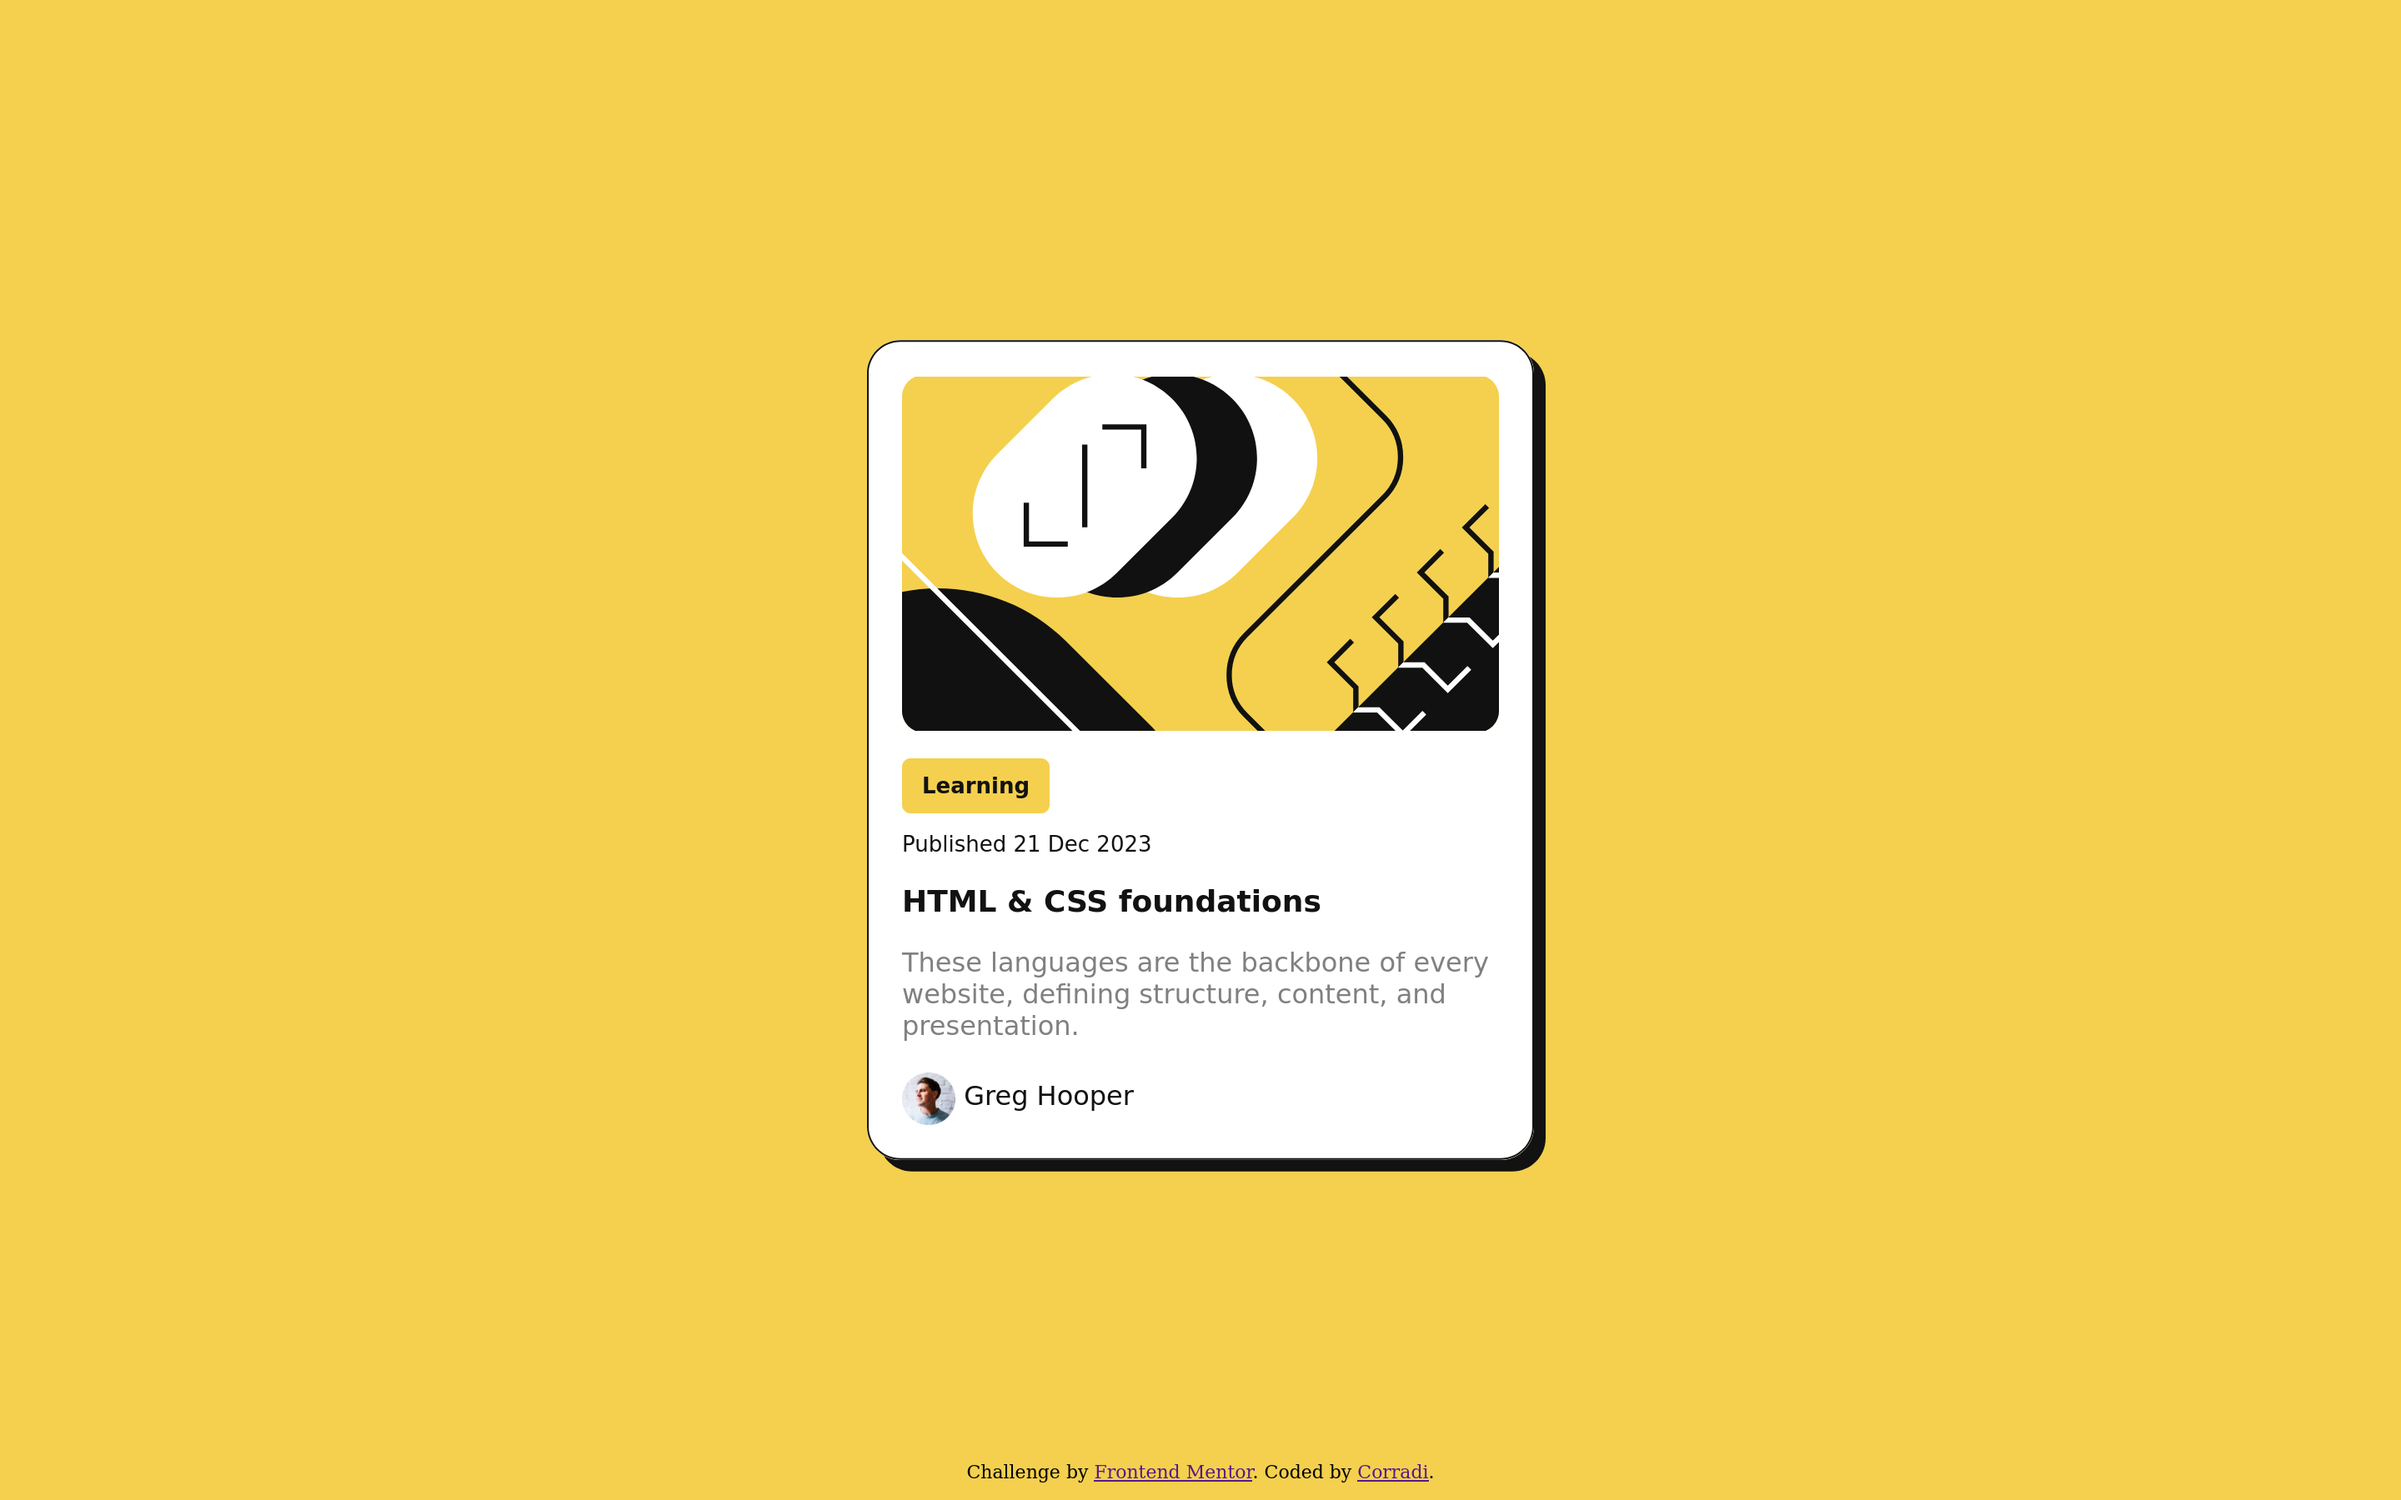
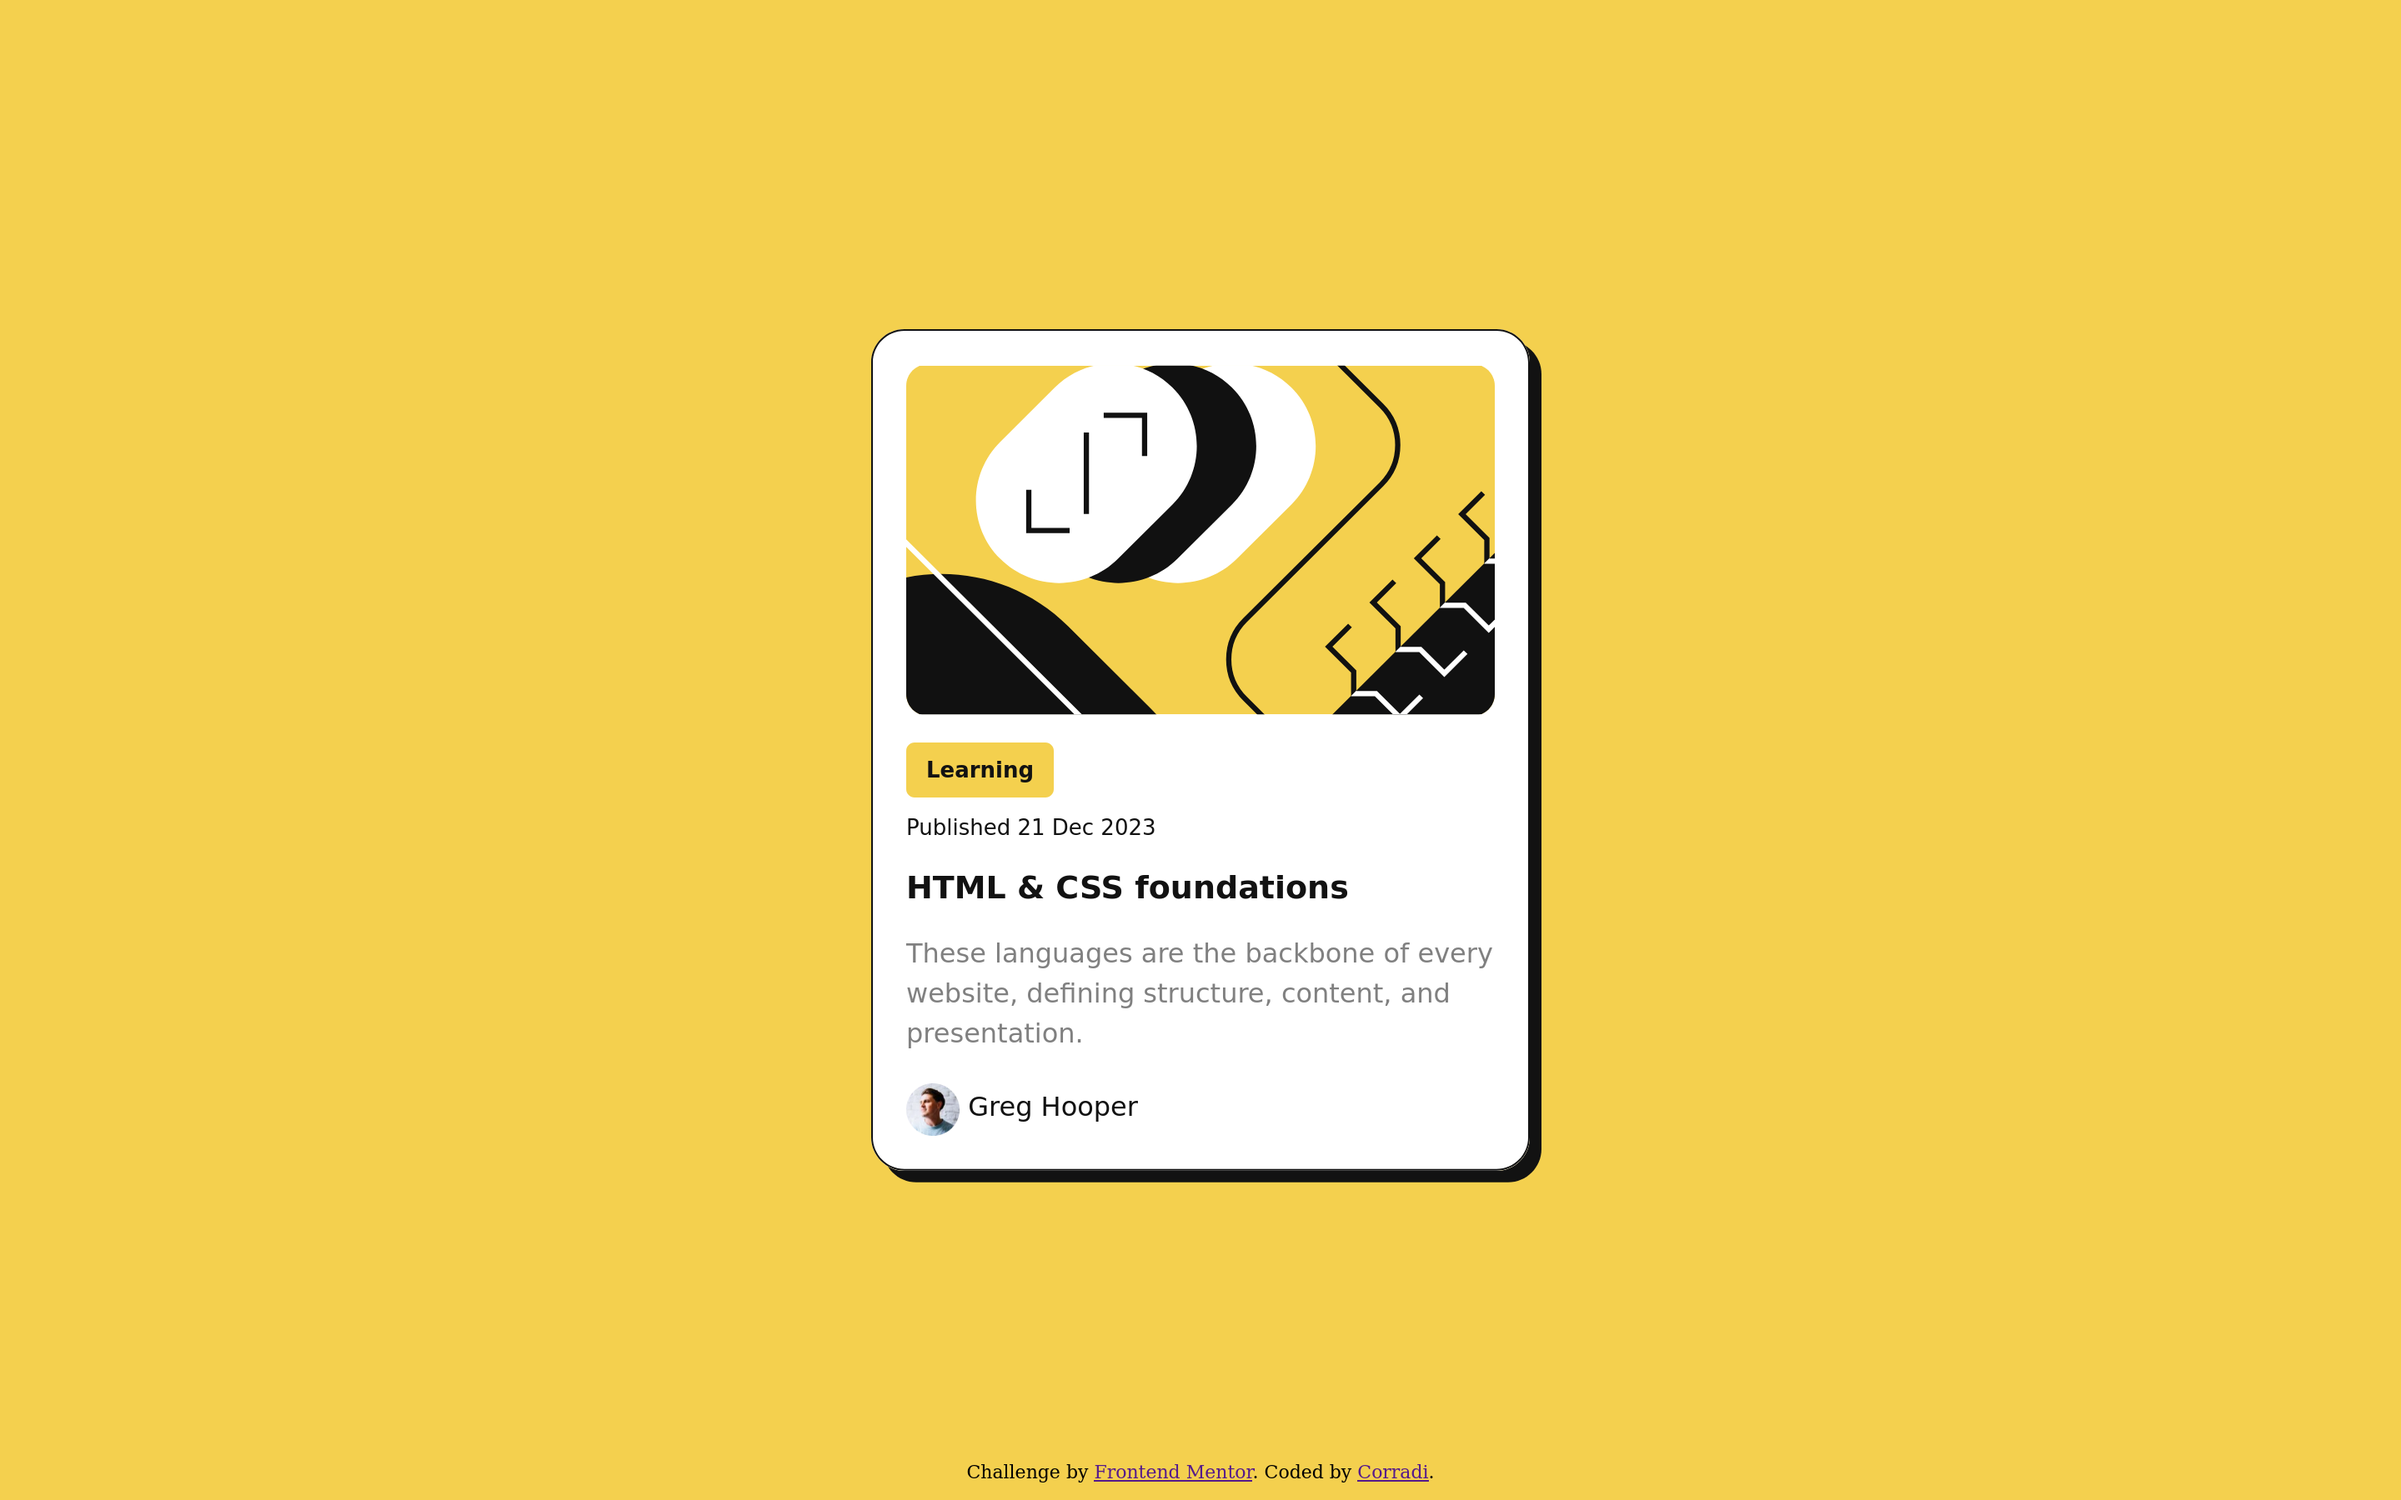
Correção de erros

Changed region(s): [[0.3438, 0.2178, 0.6562, 0.8089]]

diff --git a/blog-preview-card/css/style.css b/blog-preview-card/css/style.css
@@ -16,7 +16,7 @@ body {
 
 .card {
   background-color: hsl(0, 0%, 100%);
-  max-width: 400px;
+  max-width: 395px;
   padding: 20px;
   border: 1px solid hsl(0, 0%, 7%);
   border-radius: 20px;
@@ -53,7 +53,7 @@ body {
 }
 
 .card h1 {
-  font-size: 18px;
+  font-size: 19px;
 }
 
 .card h1:hover {
@@ -64,6 +64,7 @@ body {
 .card p {
   color: hsl(0, 0%, 50%);
   font-size: 16px;
+  line-height: 1.5em;
 }
 
 .card .footer img {

diff --git a/social-links-profile/css/styles.css b/social-links-profile/css/styles.css
@@ -3,7 +3,7 @@
 }
 
 html, body {
-  height: 100svh;
+  min-height: 100svh;
 }
 
 body { 

diff --git a/blog-preview-card/index.html b/blog-preview-card/index.html
@@ -27,5 +27,3 @@
   </div>
 </body>
 </html>
-
-
